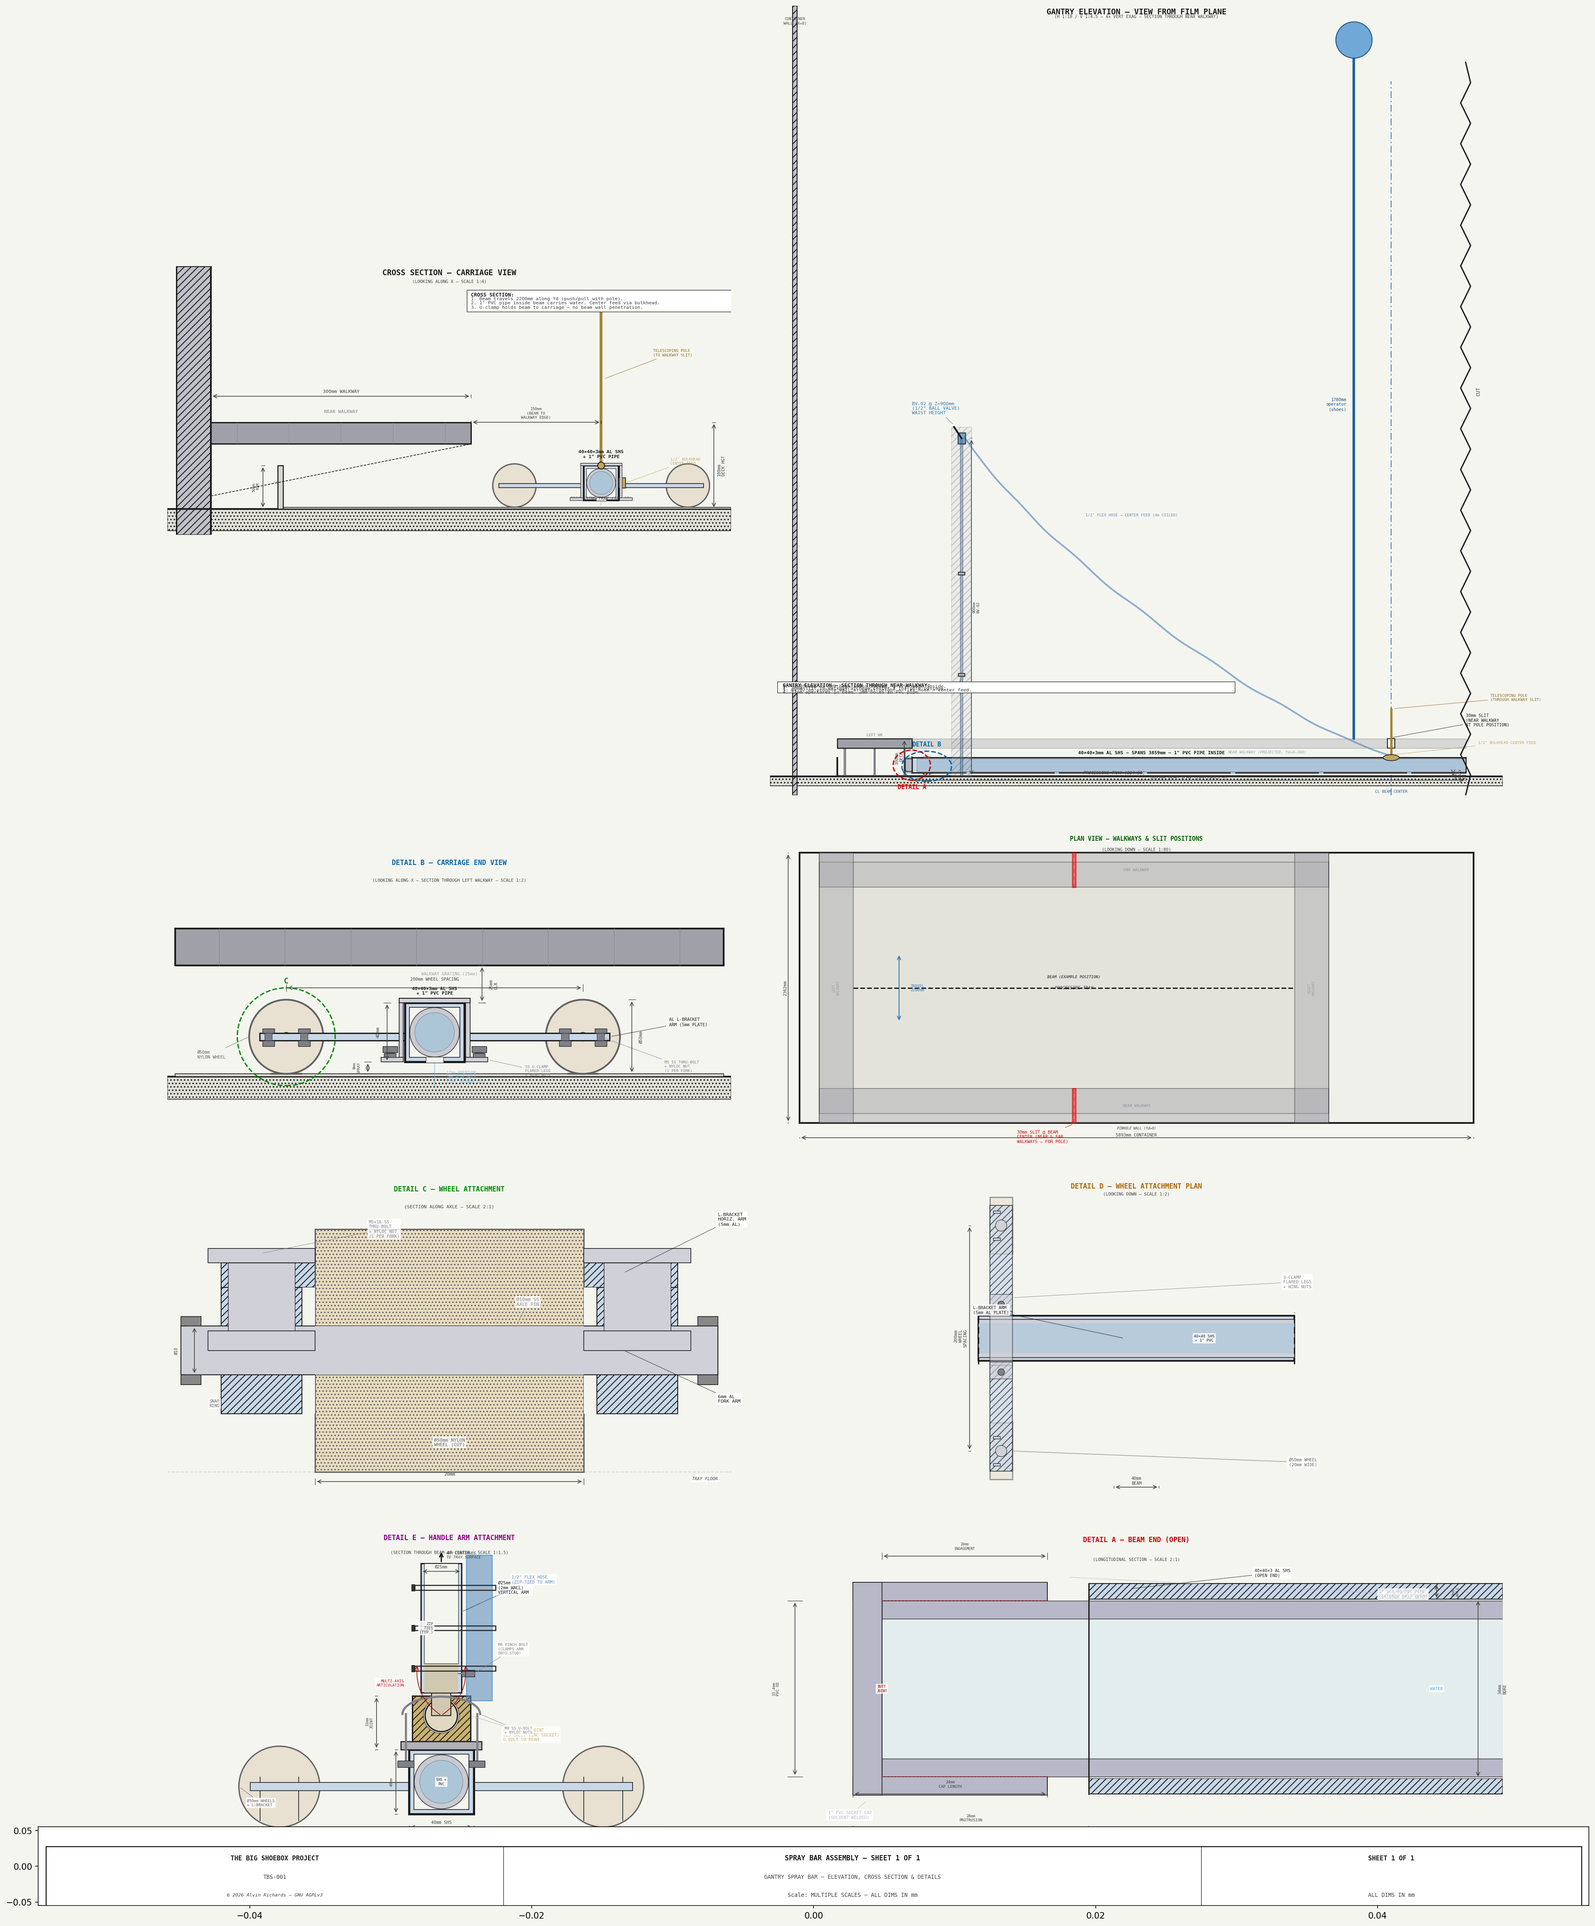
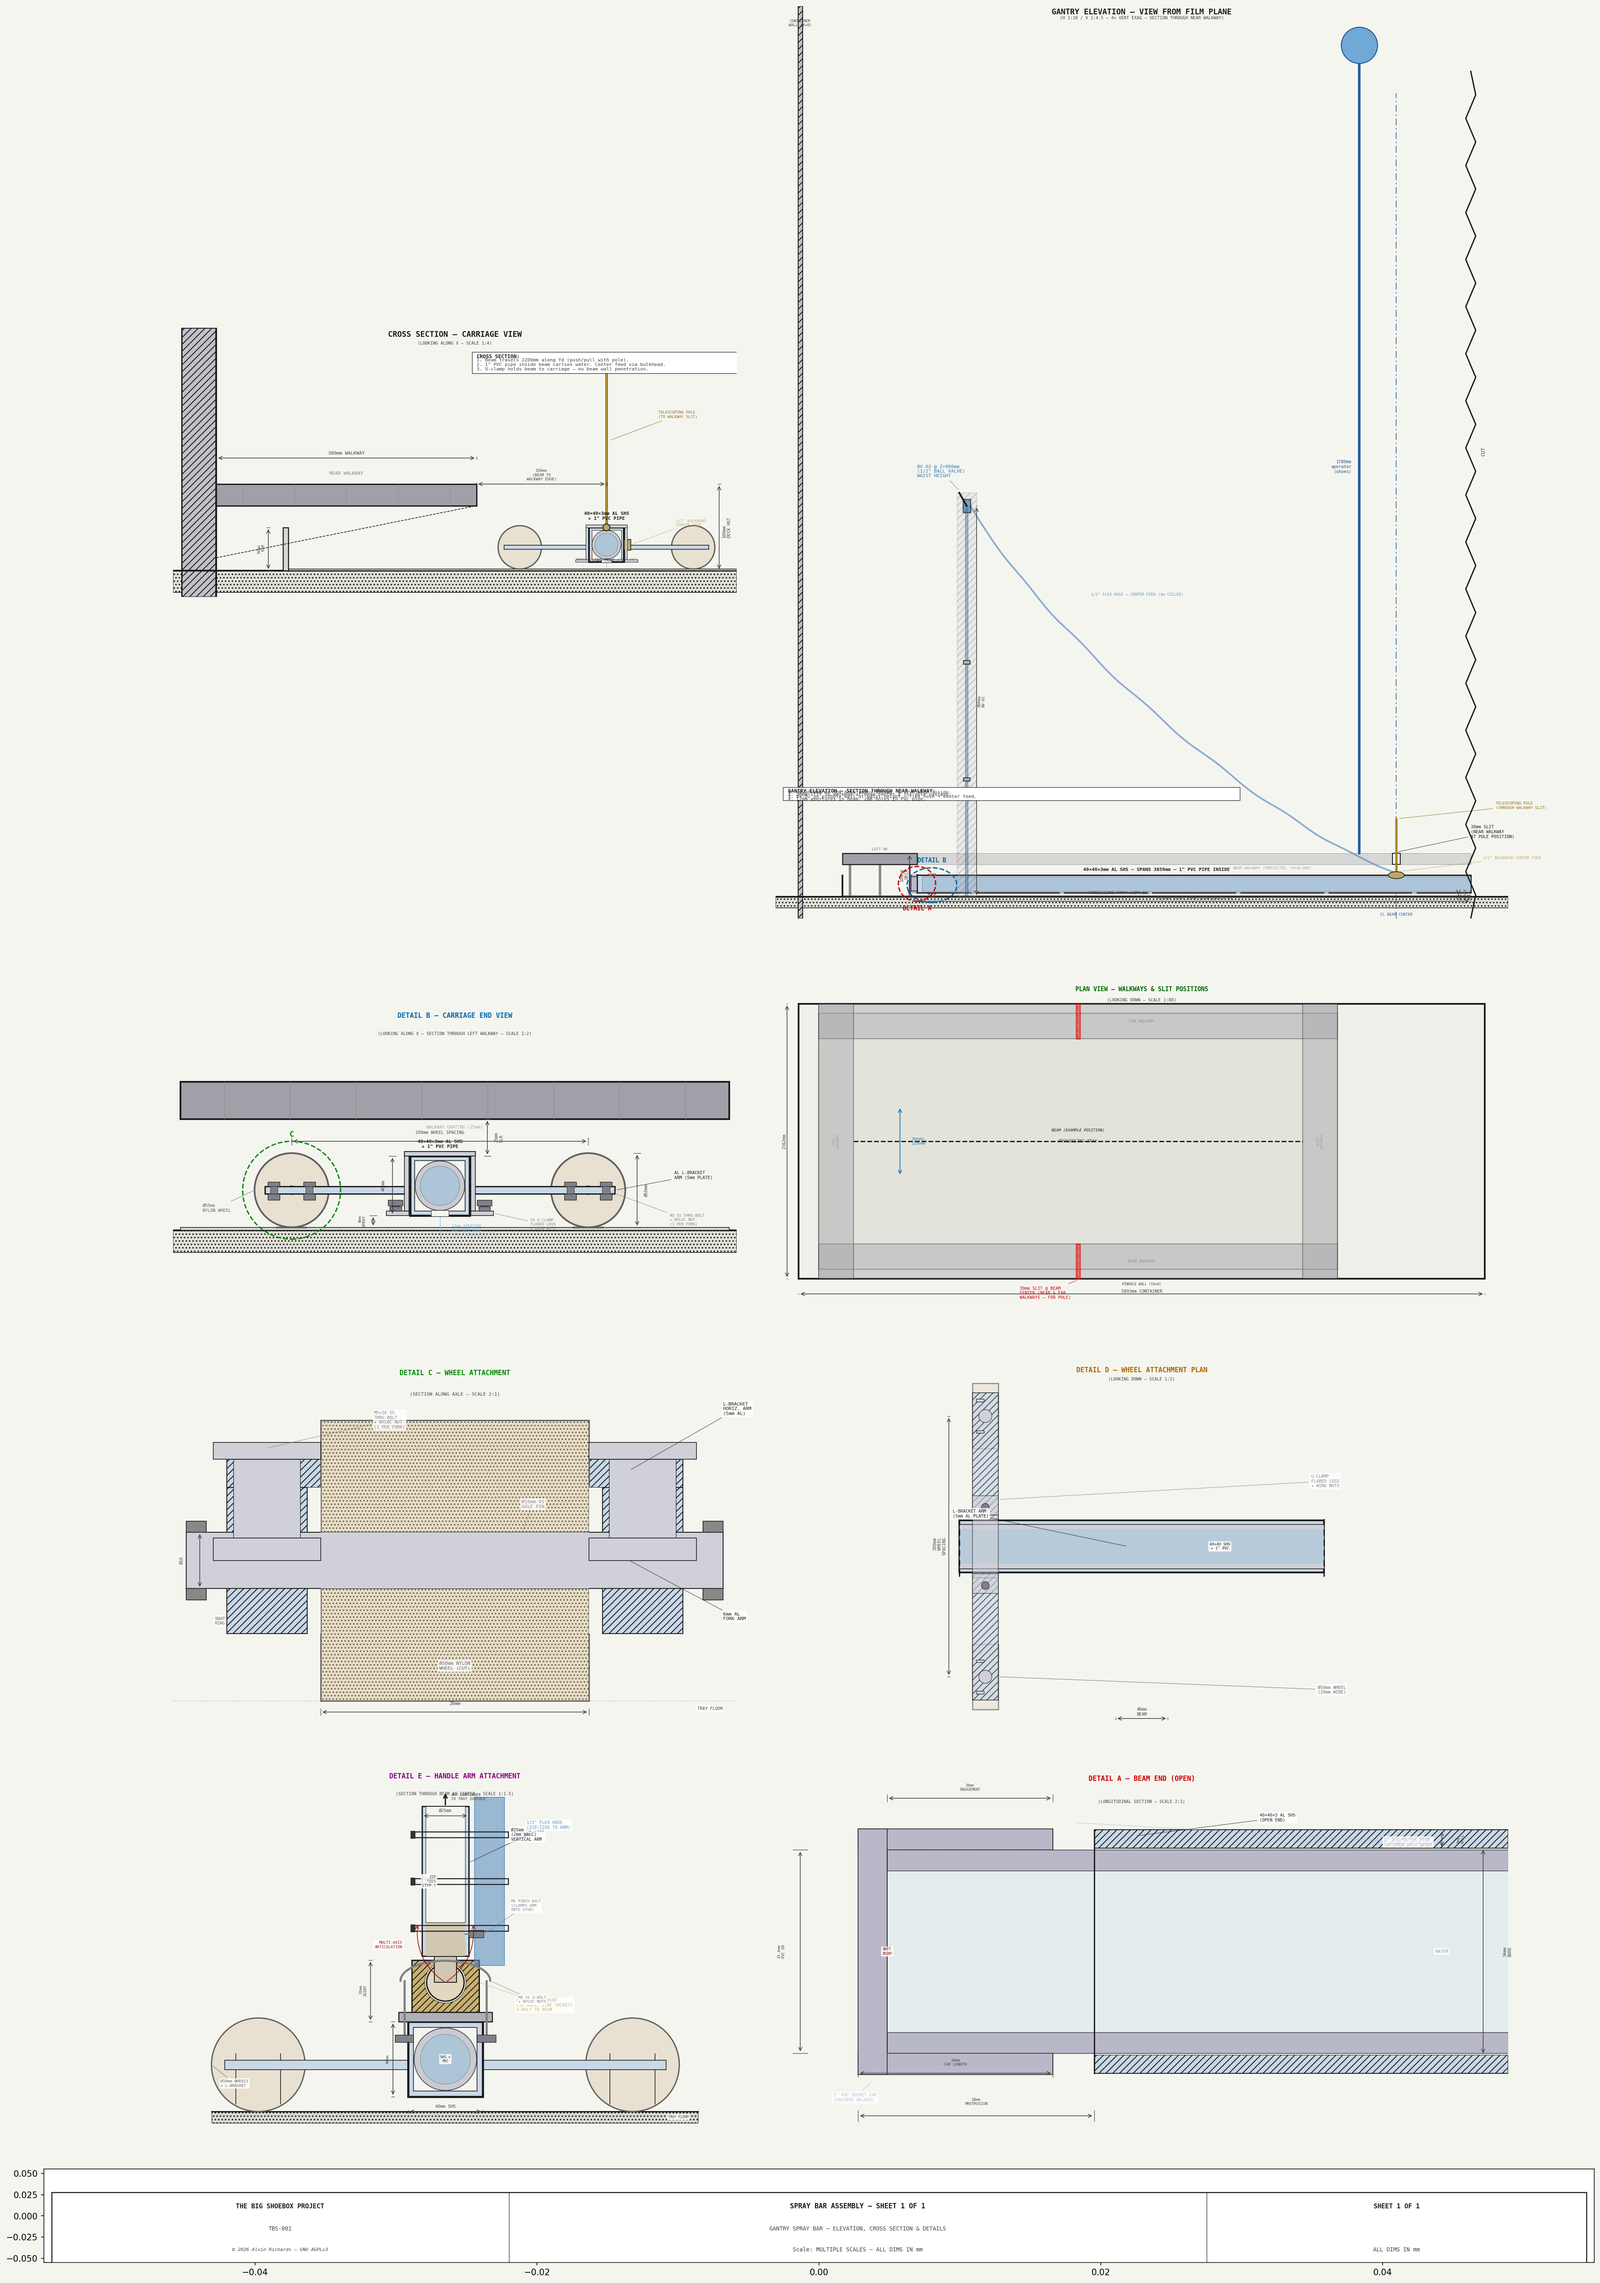
Enlarge page and fix bottom panel overlap with title block
Increase figsize from 28×32 to 28×38 and raise GridSpec bottom
from 0.035 to 0.06 to give clear separation between Detail E /
Detail A and the title block.

diff --git a/generate_spray_bar_diagram.py b/generate_spray_bar_diagram.py
@@ -104,11 +104,11 @@ WALL_T = 3
 # SHEET 1
 # ═════════════════════════════════════════════════════════════════════════════
 
-fig = plt.figure(figsize=(28, 32))
+fig = plt.figure(figsize=(28, 38))
 fig.patch.set_facecolor(C_BG)
 gs = GridSpec(4, 2, figure=fig, width_ratios=[1, 1.3],
               height_ratios=[2.5, 1, 1, 1],
-              wspace=0.06, hspace=0.08, bottom=0.035, top=0.97)
+              wspace=0.06, hspace=0.08, bottom=0.06, top=0.97)
 
 # ─────────────────────────────────────────────────────────────────────────────
 # RIGHT PANEL — X-Z section viewed from film plane (looking along Yd)
